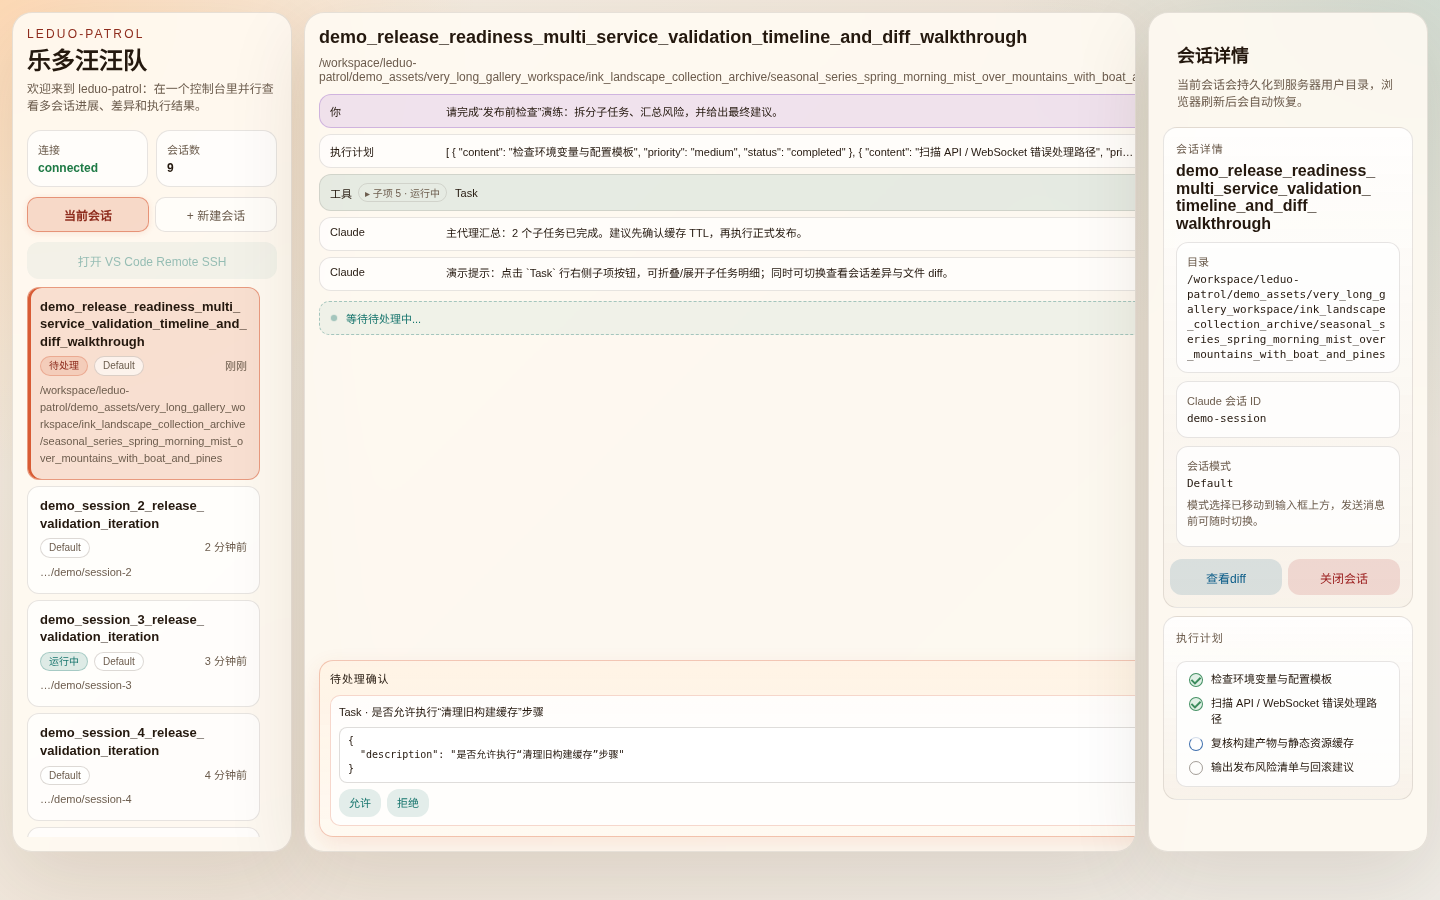
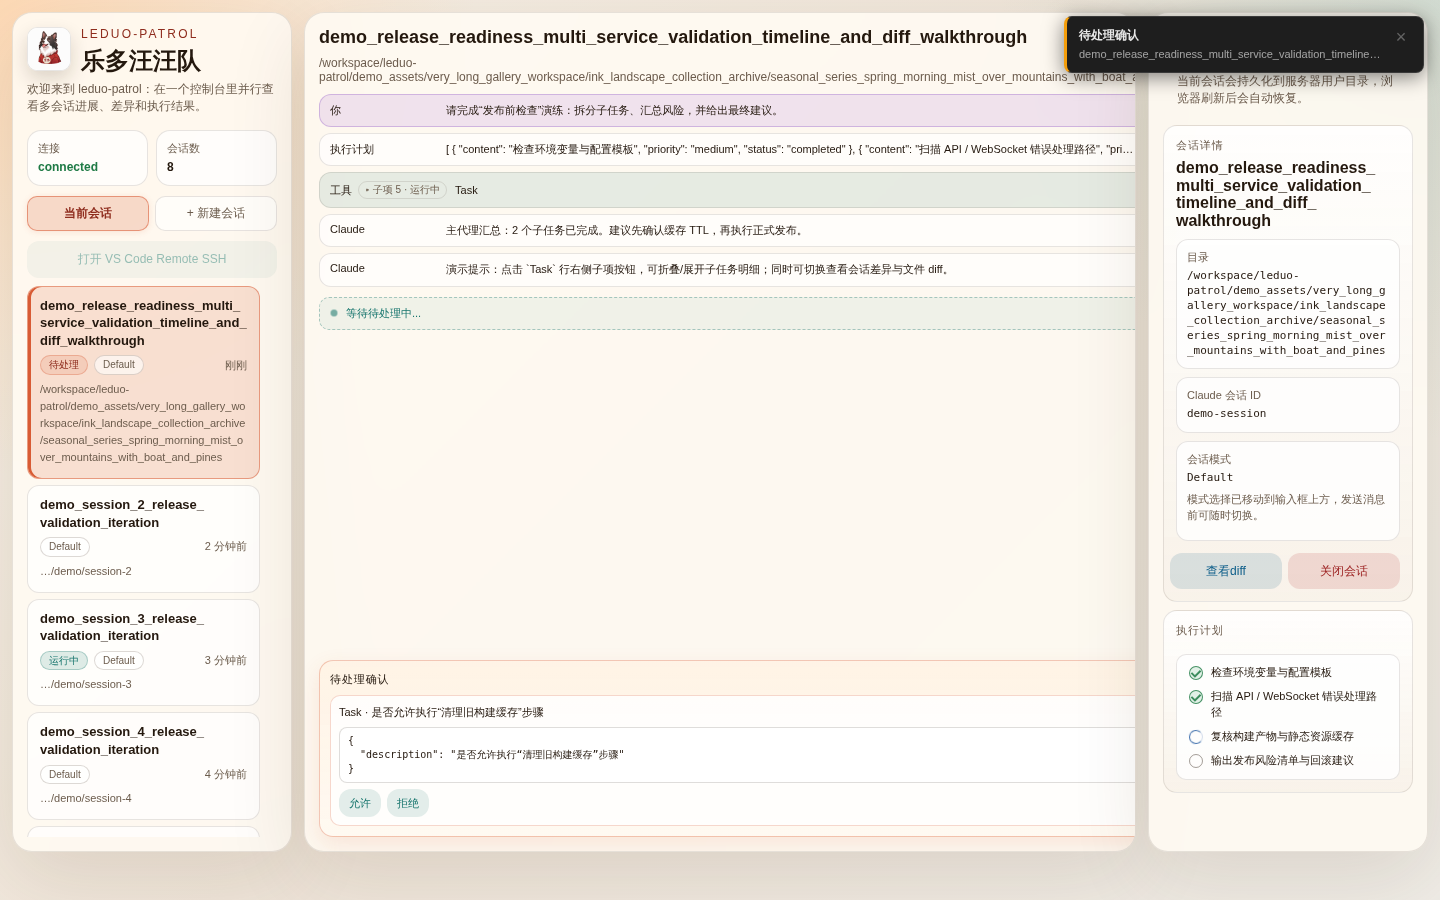
Squash branch changes from main to current head (#44)

diff --git a/e2e/showcase.spec.ts b/e2e/showcase.spec.ts
@@ -9,13 +9,17 @@ async function goDemo(page: Page) {
   await page.waitForSelector(".shell", { timeout: 8000 });
 }
 
+async function captureFull(page: Page, path: string) {
+  await page.screenshot({
+    path,
+    fullPage: true,
+  });
+}
+
 // ─── 1. 整体界面 ──────────────────────────────────────────────────────────────
 test("showcase: 整体控制台布局", async ({ page }) => {
   await goDemo(page);
-  await page.screenshot({
-    path: "docs/screenshots/01-overview.png",
-    fullPage: false,
-  });
+  await captureFull(page, "docs/screenshots/01-overview.png");
 });
 
 // ─── 2. 左侧边栏：当前会话 tab（active 高亮） ──────────────────────────────────
@@ -24,9 +28,7 @@ test("showcase: 当前会话 tab 激活态", async ({ page }) => {
   // 默认显示「当前会话」tab
   const tab = page.locator(".sidebar-tab").first();
   await expect(tab).toHaveClass(/active/);
-  await page.locator(".masthead").screenshot({
-    path: "docs/screenshots/02-sessions-tab-active.png",
-  });
+  await captureFull(page, "docs/screenshots/02-sessions-tab-active.png");
 });
 
 // ─── 3. 新建会话 tab ──────────────────────────────────────────────────────────
@@ -34,21 +36,15 @@ test("showcase: 新建会话 tab", async ({ page }) => {
   await goDemo(page);
   await page.locator(".sidebar-tab").nth(1).click();
   await page.waitForSelector(".create-panel", { timeout: 3000 });
-  await page.locator(".masthead").screenshot({
-    path: "docs/screenshots/03-create-tab.png",
-  });
+  await captureFull(page, "docs/screenshots/03-create-tab.png");
 });
 
 // ─── 4. 两个 tab 对比（激活 vs 非激活） ──────────────────────────────────────
 test("showcase: tab 对比（session vs create）", async ({ page }) => {
   await goDemo(page);
-  await page.locator(".sidebar-tabs").screenshot({
-    path: "docs/screenshots/04-tabs-compare-sessions.png",
-  });
+  await captureFull(page, "docs/screenshots/04-tabs-compare-sessions.png");
   await page.locator(".sidebar-tab").nth(1).click();
-  await page.locator(".sidebar-tabs").screenshot({
-    path: "docs/screenshots/05-tabs-compare-create.png",
-  });
+  await captureFull(page, "docs/screenshots/05-tabs-compare-create.png");
 });
 
 // ─── 5. session-chip active 态（左侧边框 + 背景高亮） ─────────────────────────
@@ -59,10 +55,8 @@ test("showcase: 当前会话卡片选中态", async ({ page }) => {
   if (count > 0) {
     // 点击第一个会话
     await chips.first().click();
-    await page.locator(".session-list").screenshot({
-      path: "docs/screenshots/06-session-chip-active.png",
-    });
   }
+  await captureFull(page, "docs/screenshots/06-session-chip-active.png");
 });
 
 // ─── 6. 新建会话表单（带 label） ──────────────────────────────────────────────
@@ -70,17 +64,13 @@ test("showcase: 新建会话表单", async ({ page }) => {
   await goDemo(page);
   await page.locator(".sidebar-tab").nth(1).click();
   await page.waitForSelector(".create-panel");
-  await page.locator(".create-panel").screenshot({
-    path: "docs/screenshots/07-create-form.png",
-  });
+  await captureFull(page, "docs/screenshots/07-create-form.png");
 });
 
 // ─── 7. 时间线视图（SubAgent 折叠） ──────────────────────────────────────────
 test("showcase: 时间线 SubAgent 树（展开）", async ({ page }) => {
   await goDemo(page);
-  await page.locator(".transcript").screenshot({
-    path: "docs/screenshots/08-timeline-expanded.png",
-  });
+  await captureFull(page, "docs/screenshots/08-timeline-expanded.png");
 });
 
 // ─── 8. 时间线折叠后 ─────────────────────────────────────────────────────────
@@ -89,13 +79,9 @@ test("showcase: 时间线 SubAgent 树（折叠）", async ({ page }) => {
   const collapseBtn = page.locator(".timeline-collapse-btn").first();
   if (await collapseBtn.isVisible()) {
     await collapseBtn.click();
-    await page.locator(".transcript").screenshot({
-      path: "docs/screenshots/09-timeline-collapsed.png",
-    });
-  } else {
-    // 没有折叠按钮时跳过截图（不 fallback 到相同内容）
-    test.skip();
   }
+  // 若不存在折叠按钮，则保留当前状态截图，确保 showcase 产物完整
+  await captureFull(page, "docs/screenshots/09-timeline-collapsed.png");
 });
 
 // ─── 9. 右侧审批面板 ─────────────────────────────────────────────────────────
@@ -103,16 +89,12 @@ test("showcase: 右侧审批 + 状态面板", async ({ page }) => {
   await goDemo(page);
   const rightPanel = page.locator(".panel").nth(2);
   if (await rightPanel.isVisible()) {
-    await rightPanel.screenshot({
-      path: "docs/screenshots/10-approvals-panel.png",
-    });
+    await captureFull(page, "docs/screenshots/10-approvals-panel.png");
   }
 });
 
 // ─── 10. 完整侧边栏（含多个 session-chip） ───────────────────────────────────
 test("showcase: 侧边栏完整视图", async ({ page }) => {
   await goDemo(page);
-  await page.locator(".panel").first().screenshot({
-    path: "docs/screenshots/11-sidebar-full.png",
-  });
+  await captureFull(page, "docs/screenshots/11-sidebar-full.png");
 });

diff --git a/src/App.tsx b/src/App.tsx
@@ -1315,10 +1315,15 @@ export default function App() {
       <div className="shell multi-session">
       <aside className="panel masthead">
         <div className="masthead-intro">
-          <div>
-            <p className="eyebrow">leduo-patrol</p>
-            <h1>{config?.appName ?? "乐汪队"}</h1>
-            <p className="lede">欢迎来到 leduo-patrol：在一个控制台里并行查看多会话进展、差异和执行结果。</p>
+          <div className="brand-stack">
+            <div className="brand-lockup">
+              <img className="brand-icon" src="/assets/brand-icon.png" alt="" aria-hidden="true" />
+              <div className="brand-copy">
+                <p className="eyebrow">leduo-patrol</p>
+                <h1>{config?.appName ?? "LEDUO-PATROL 乐多汪汪队"}</h1>
+              </div>
+            </div>
+            <p className="lede masthead-lede">欢迎来到 leduo-patrol：在一个控制台里并行查看多会话进展、差异和执行结果。</p>
           </div>
           {globalErrorItems.length > 0 ? (
             <button

diff --git a/src/styles.css b/src/styles.css
@@ -134,6 +134,36 @@ h1 {
   flex-shrink: 0;
 }
 
+.brand-lockup {
+  display: flex;
+  align-items: flex-start;
+  gap: 10px;
+  min-width: 0;
+}
+
+.brand-stack {
+  min-width: 0;
+}
+
+.brand-copy {
+  min-width: 0;
+}
+
+.masthead-lede {
+  margin-top: 8px;
+}
+
+.brand-icon {
+  width: 44px;
+  height: 44px;
+  flex: 0 0 44px;
+  border-radius: 10px;
+  border: 1px solid var(--line);
+  background: rgba(255, 255, 255, 0.95);
+  object-fit: cover;
+  box-shadow: 0 8px 18px rgba(45, 26, 11, 0.16);
+}
+
 .error-indicator {
   flex: 0 0 auto;
   min-width: 24px;

diff --git a/index.html b/index.html
@@ -3,6 +3,7 @@
   <head>
     <meta charset="UTF-8" />
     <meta name="viewport" content="width=device-width, initial-scale=1.0" />
+    <link rel="icon" type="image/png" href="/assets/brand-icon.png" />
     <title>leduo-patrol</title>
   </head>
   <body>

diff --git a/README.md b/README.md
@@ -4,17 +4,51 @@
 
 ## Showcase
 
-| 整体控制台布局 | 侧边栏：会话切换与新建 |
-|:---:|:---:|
-| ![整体控制台布局](docs/screenshots/01-overview.png) | ![侧边栏](docs/screenshots/11-sidebar-full.png) |
+### Walkthrough
 
-| 当前会话 tab（激活态） | + 新建会话 tab |
-|:---:|:---:|
-| ![当前会话 tab](docs/screenshots/02-sessions-tab-active.png) | ![新建会话表单](docs/screenshots/03-create-tab.png) |
+**1. 进入控制台：整体布局**
 
-| tab 对比（激活 vs 非激活） | 时间线（SubAgent 展开） |
-|:---:|:---:|
-| ![tab 对比](docs/screenshots/04-tabs-compare-sessions.png) | ![时间线](docs/screenshots/08-timeline-expanded.png) |
+![整体控制台布局](docs/screenshots/01-overview.png)
+
+**2. 当前会话 tab（激活态）**
+
+![当前会话 tab（激活态）](docs/screenshots/02-sessions-tab-active.png)
+
+**3. 切换到新建会话 tab**
+
+![新建会话 tab](docs/screenshots/03-create-tab.png)
+
+**4. 对比两个 tab 状态（session）**
+
+![tab 对比（session）](docs/screenshots/04-tabs-compare-sessions.png)
+
+**5. 对比两个 tab 状态（create）**
+
+![tab 对比（create）](docs/screenshots/05-tabs-compare-create.png)
+
+**6. 选择会话卡片**
+
+![会话卡片选中态](docs/screenshots/06-session-chip-active.png)
+
+**7. 查看新建会话表单**
+
+![新建会话表单](docs/screenshots/07-create-form.png)
+
+**8. 时间线（SubAgent）展开态**
+
+![时间线 SubAgent 树（展开）](docs/screenshots/08-timeline-expanded.png)
+
+**9. 时间线（SubAgent）折叠态**
+
+![时间线 SubAgent 树（折叠）](docs/screenshots/09-timeline-collapsed.png)
+
+**10. 右侧审批 + 状态面板**
+
+![右侧审批 + 状态面板](docs/screenshots/10-approvals-panel.png)
+
+**11. 侧边栏完整视图**
+
+![侧边栏完整视图](docs/screenshots/11-sidebar-full.png)
 
 ## 功能列表
 
